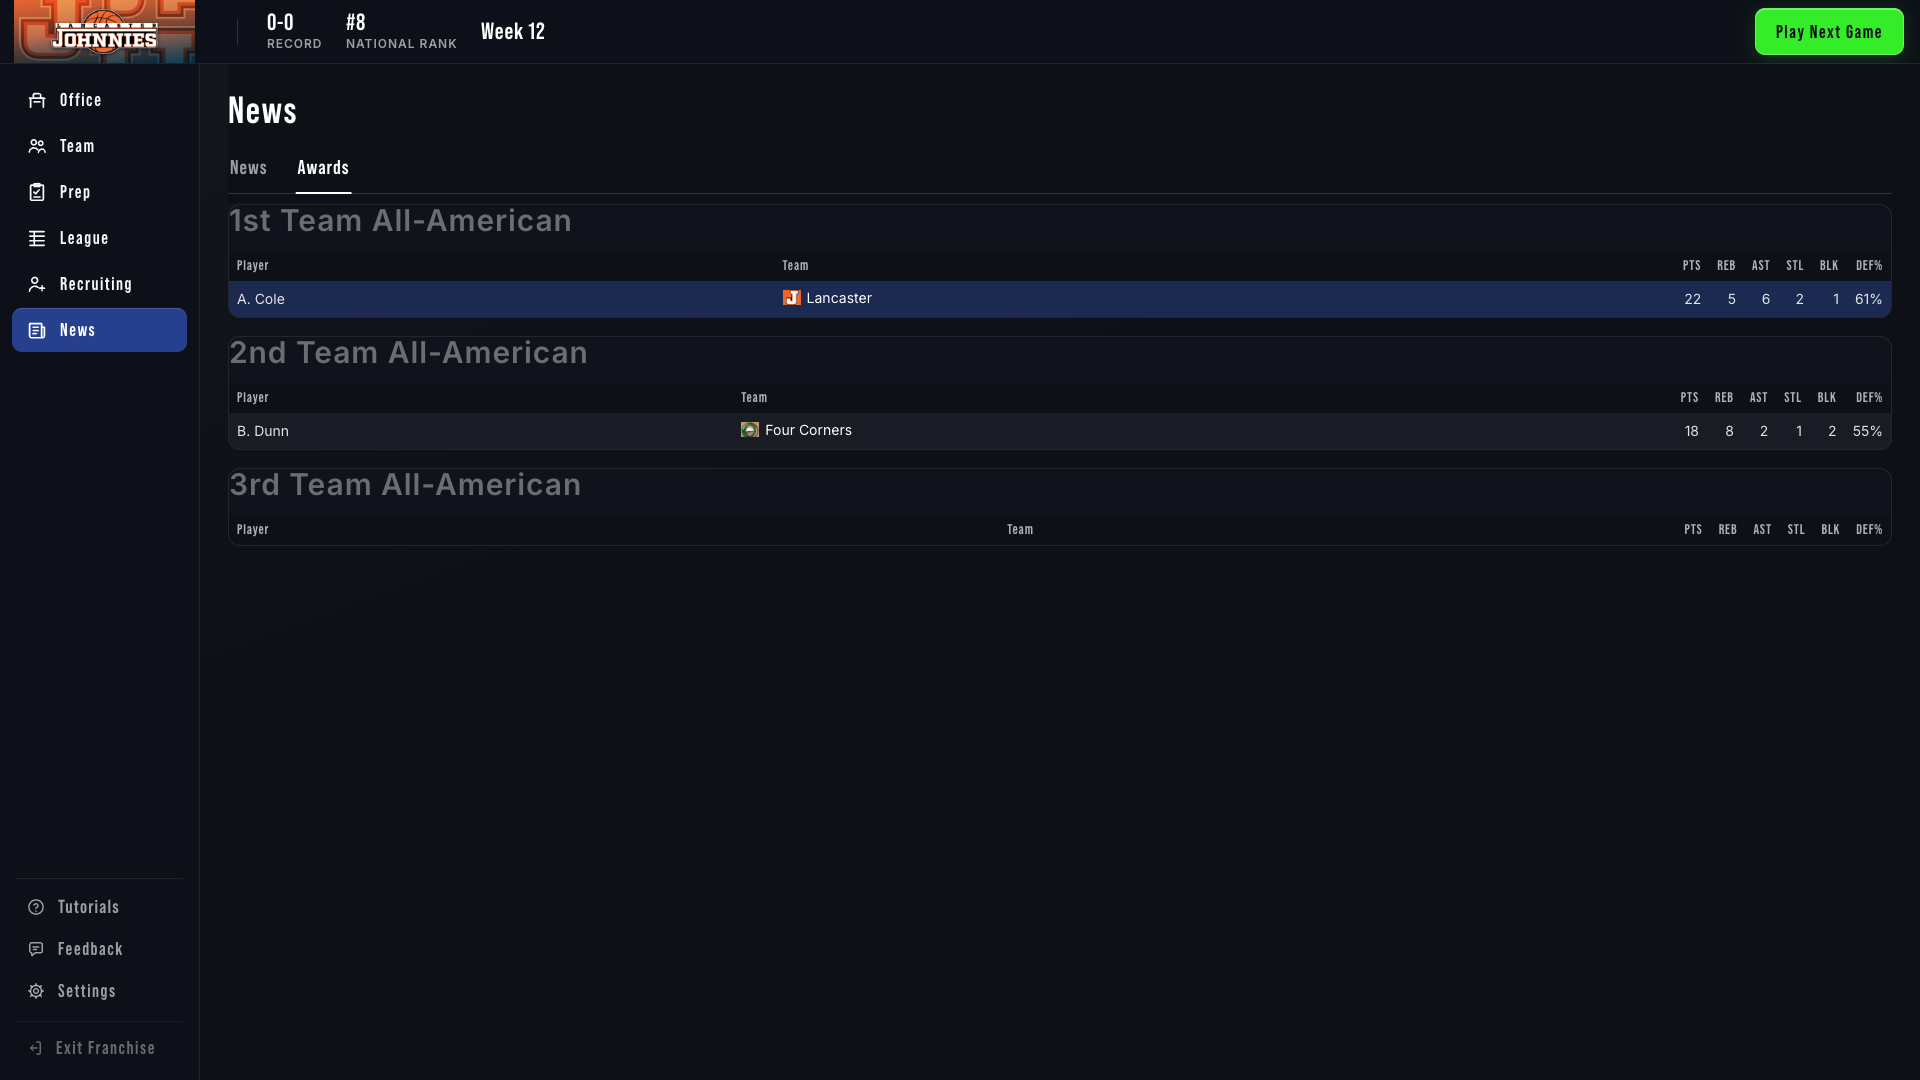
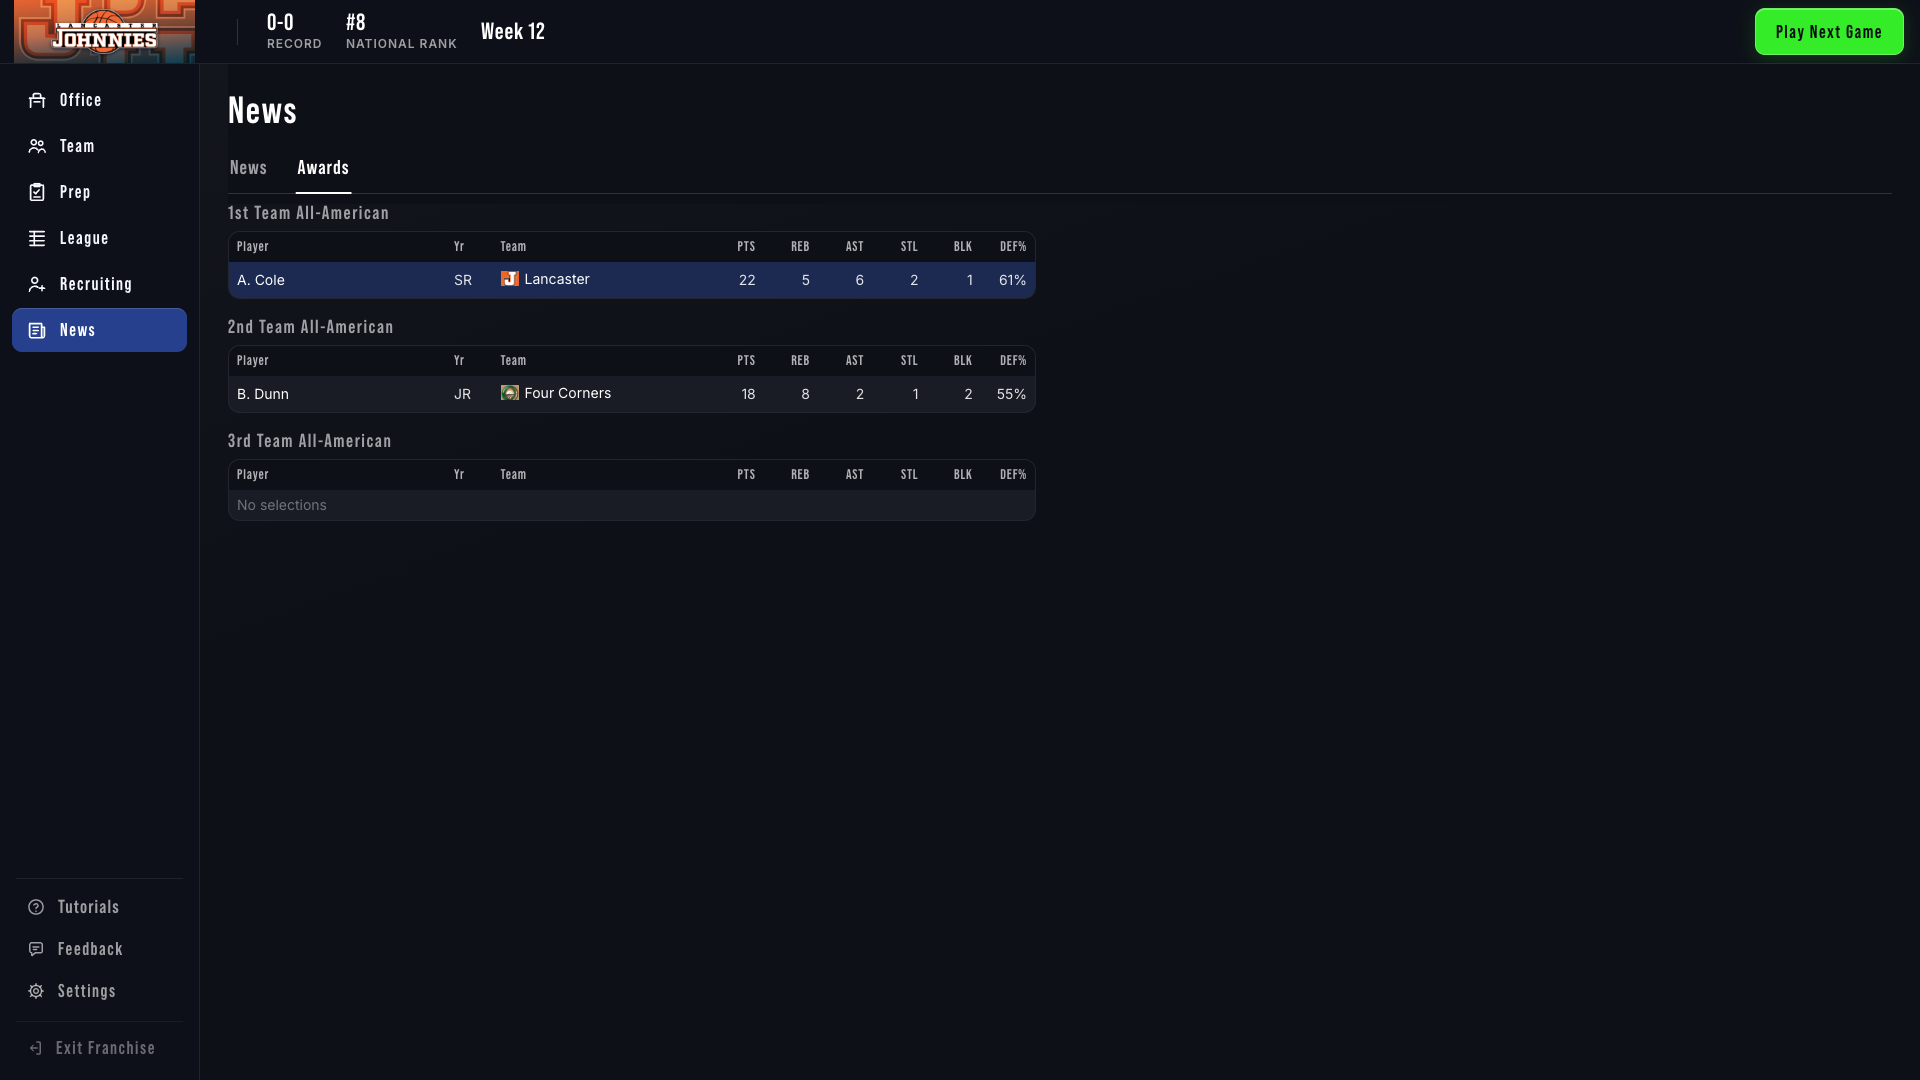
Tighten the awards cards to the table and land the news visual fix.

Changed region(s): [[0.0938, 0.1833, 1.0, 0.4889], [0.375, 0.3667, 0.4062, 0.3972]]

diff --git a/FrontEnd/static/js/shared/views/awardsView.js b/FrontEnd/static/js/shared/views/awardsView.js
@@ -15,6 +15,13 @@ function sameId(a, b) {
   return String(a || '') !== '' && String(a) === String(b || '');
 }
 
+function formatYear(year) {
+  if (window.GOB_PlayerYear && typeof window.GOB_PlayerYear.formatDisplay === 'function') {
+    return window.GOB_PlayerYear.formatDisplay(year);
+  }
+  return year || '--';
+}
+
 function statText(stats, key) {
   var value = stats ? stats[key] : null;
   if (value == null || value === '') return '--';
@@ -30,6 +37,19 @@ export function mount(container, ctx) {
   var alive = true;
   var userId = (ctx && ctx.teamId) || '';
   var franchiseId = (ctx && ctx.franchiseId) || '';
+
+  function playerHref(player) {
+    var params = new URLSearchParams(window.location.search);
+    params.set('tab', 'player-view');
+    params.set('player_id', player.player_id || '');
+    params.set('origin', 'league');
+    params.set('up', 'Awards');
+    params.set('return_tab', 'awards-view');
+    params.delete('story');
+    params.delete('view_team_id');
+    var text = params.toString();
+    return window.location.pathname + (text ? '?' + text : '');
+  }
 
   function teamHref(player) {
     var params = new URLSearchParams(window.location.search);
@@ -53,16 +73,25 @@ export function mount(container, ctx) {
     var html = '<div class="gob-awards">';
     TEAMS.forEach(function (team) {
       var players = teams[team.key] || [];
-      html += '<section class="gob-tcard"><h3>' + tables.esc(team.label) + '</h3>';
-      html += '<table class="gob-tbl"><thead><tr><th class="team">Player</th><th class="team">Team</th>';
+      html += '<section><h3>' + tables.esc(team.label) + '</h3><div class="gob-tcard">';
+      html += '<table class="gob-tbl gob-awards-tbl"><colgroup><col class="c-player"><col class="c-yr"><col class="c-team">';
+      STATS.forEach(function () { html += '<col class="c-stat">'; });
+      html += '</colgroup><thead><tr><th class="left">Player</th><th class="left">Yr</th><th class="left">Team</th>';
       STATS.forEach(function (key) { html += '<th>' + tables.esc(key) + '</th>'; });
       html += '</tr></thead><tbody>';
+      if (!players.length) {
+        html += '<tr><td class="left gob-awards-empty" colspan="9">No selections</td></tr>';
+      }
       players.forEach(function (player) {
         var mine = sameId(player.team_id, userId);
         var stats = player.stats || {};
+        var name = tables.esc(player.name || '--');
         html += '<tr' + (mine ? ' class="me is-user"' : '') + '>';
-        html += '<td class="team">' + tables.esc(player.name || '--') + '</td>';
-        html += '<td class="team">' + tables.teamLink(
+        html += '<td class="left">' + (player.player_id
+          ? '<a class="gob-player" href="' + tables.esc(playerHref(player)) + '">' + name + '</a>'
+          : name) + '</td>';
+        html += '<td class="left">' + tables.esc(formatYear(player.year)) + '</td>';
+        html += '<td class="left">' + tables.teamLink(
           teamHref(player),
           player.team_name || '--',
           player.team_name || '',
@@ -73,11 +102,11 @@ export function mount(container, ctx) {
         });
         html += '</tr>';
       });
-      html += '</tbody></table></section>';
+      html += '</tbody></table></div></section>';
     });
     html += '</div>';
     container.innerHTML = html;
-    container.querySelectorAll('a.gob-team').forEach(function (link) {
+    container.querySelectorAll('a.gob-team, a.gob-player').forEach(function (link) {
       link.addEventListener('click', function (event) {
         if (event.metaKey || event.ctrlKey || event.shiftKey || event.altKey || event.button) return;
         event.preventDefault();

diff --git a/tests/e2e/news-awards.spec.js b/tests/e2e/news-awards.spec.js
@@ -91,6 +91,7 @@ function awardsBody() {
       first_team: [{
         player_id: 'p1',
         name: 'A. Cole',
+        year: 'Senior',
         team_id: TID,
         team_name: 'Lancaster',
         stats: { PTS: 22, REB: 5, AST: 6, STL: 2, BLK: 1, 'DEF%': 61 },
@@ -98,6 +99,7 @@ function awardsBody() {
       second_team: [{
         player_id: 'p2',
         name: 'B. Dunn',
+        year: 'Junior',
         team_id: OTHER,
         team_name: 'Four Corners',
         stats: { PTS: 18, REB: 8, AST: 2, STL: 1, BLK: 2, 'DEF%': 55 },
@@ -201,7 +203,16 @@ test('news and awards tabs stay in the page', async ({ page }) => {
   const firstRow = page.locator('#news-view .gob-news-week').first().locator('.gob-news-row').first();
   await expect(firstRow).toHaveClass(/is-yours/);
   await expect(firstRow).toContainText('Lancaster defeated Four Corners 70-64');
-  await expect(firstRow.locator('a')).toHaveAttribute('href', '/box-score.html?game_id=g1');
+  await expect(firstRow.locator('a.lnk')).toHaveAttribute('href', '/box-score.html?game_id=g1');
+  await expect(firstRow.locator('a.lnk')).toHaveText('Box Score');
+  const head = await page.locator('#news-view .gob-news-week > h3').first().evaluate(function (el) {
+    const style = getComputedStyle(el);
+    return { size: style.fontSize, family: style.fontFamily };
+  });
+  expect(head.size).toBe('16px');
+  expect(head.family).toContain('Bebas');
+  const edge = await firstRow.evaluate(function (el) { return getComputedStyle(el).boxShadow; });
+  expect(edge).toContain('39, 64, 142');
   expect(page.url()).toContain('tab=news-view');
   expect(page.url()).not.toContain('news.html');
   expect(await page.evaluate(() => performance.getEntriesByType('navigation').length)).toBe(navs);
@@ -210,10 +221,16 @@ test('news and awards tabs stay in the page', async ({ page }) => {
   await expect(page.locator('#awards-view.tab-content.active')).toBeVisible();
   await expect(page.locator('#awards-view h3').first()).toHaveText('1st Team All-American');
   await expect(page.locator('#awards-view tr.me')).toContainText('A. Cole');
+  await expect(page.locator('#awards-view tr.me')).toContainText('SR');
   await expect(page.locator('#awards-view tr.me')).toContainText('61%');
   await expect(page.locator('#awards-view tbody tr').nth(1)).not.toHaveClass(/me/);
+  await expect(page.locator('#awards-view .gob-awards-empty')).toHaveText('No selections');
   expect(page.url()).toContain('tab=awards-view');
   expect(page.url()).not.toContain('awards.html');
+  const player = page.locator('#awards-view tr.me a.gob-player');
+  await player.click();
+  await expect.poll(function () { return page.url(); }).toContain('tab=player-view');
+  expect(page.url()).toContain('player_id=p1');
 });
 
 test('a headline pushes the story and back restores the feed scroll', async ({ page }) => {

diff --git a/FrontEnd/static/css/gob-views.css b/FrontEnd/static/css/gob-views.css
@@ -206,16 +206,20 @@
   font: var(--fw-semibold) var(--fs-14)/var(--lh-body) var(--font-body);
 }
 
-.gob-news-week {
-  margin: 0 0 18px;
+.gob-news,
+.gob-awards {
+  display: flex;
+  flex-direction: column;
+  gap: var(--dsp-16);
 }
 
-.gob-news-week h3,
-.gob-awards h3 {
-  margin: 0 0 8px;
-  font: var(--fw-semibold) var(--fs-12)/var(--lh-1) var(--font-body);
-  letter-spacing: var(--tracking-6);
-  color: var(--text-38);
+/* Beats #franchise-container .tab-content h3 (30px Inter). Same face as .gob .card-h h3. */
+#franchise-container #news-view .gob-news-week > h3,
+#franchise-container #awards-view .gob-awards > section > h3 {
+  margin: 0 0 var(--space-8);
+  font: var(--fw-bold) var(--fs-16)/var(--lh-1) var(--font-display);
+  letter-spacing: var(--tracking-8);
+  color: var(--text-60);
 }
 
 .gob-news-row {
@@ -234,8 +238,24 @@
   min-width: 0;
 }
 
+.gob-news-card .gob-news-row:first-child {
+  border-top: 0;
+}
+
 .gob-news-row.is-yours {
-  box-shadow: inset 3px 0 0 #1c2a52;
+  box-shadow: inset 3px 0 0 var(--navy);
+}
+
+#franchise-container #news-view .gob-news-row a.lnk {
+  margin-left: auto;
+}
+
+#franchise-container #news-view a.lnk {
+  color: var(--text-60);
+}
+
+#franchise-container #news-view a.lnk:hover {
+  color: var(--text-100);
 }
 
 .gob-news-type {
@@ -282,16 +302,37 @@
   gap: 16px;
 }
 
-#awards-view .gob-tbl th:not(.team),
-#awards-view .gob-tbl td:not(.team),
-#news-view .gob-news-body .gob-tbl th:not(.team),
-#news-view .gob-news-body .gob-tbl td:not(.team) {
-  width: 1%;
-  white-space: nowrap;
+/* The shared wide-table floor is 1760px. A story player table is content-sized so
+   the attribute tiles and the RT letter stay on screen with the name. */
+#franchise-container #news-view .gob-news-body .gob-xs .gob-tbl {
+  min-width: 0;
+  width: max-content;
 }
 
-.gob-awards {
-  display: flex;
-  flex-direction: column;
-  gap: 18px;
+#franchise-container #awards-view .gob-awards .gob-tcard {
+  width: fit-content;
+  max-width: 100%;
+}
+
+#franchise-container #awards-view table.gob-awards-tbl {
+  width: max-content;
+  max-width: 100%;
+}
+
+#franchise-container #awards-view table.gob-awards-tbl col.c-player { width: 14rem; }
+#franchise-container #awards-view table.gob-awards-tbl col.c-yr { width: 3rem; }
+#franchise-container #awards-view table.gob-awards-tbl col.c-team { width: 14rem; }
+#franchise-container #awards-view table.gob-awards-tbl col.c-stat { width: 3.5rem; }
+
+#franchise-container #awards-view a.gob-player {
+  color: var(--text-100);
+  text-decoration: none;
+}
+
+#franchise-container #awards-view a.gob-player:hover {
+  text-decoration: underline;
+}
+
+#franchise-container #awards-view .gob-awards-empty {
+  color: var(--text-38);
 }

diff --git a/FrontEnd/static/js/shared/views/newsView.js b/FrontEnd/static/js/shared/views/newsView.js
@@ -40,6 +40,12 @@ function feedUrl() {
   return window.location.pathname + (text ? '?' + text : '');
 }
 
+function presentLabel(label) {
+  return String(label || '').replace(/\b\w/g, function (letter) {
+    return letter.toUpperCase();
+  });
+}
+
 function storyUrl(id) {
   var params = new URLSearchParams(window.location.search);
   params.set('tab', 'news-view');
@@ -131,14 +137,14 @@ export function mount(container, ctx) {
     var html = '<div class="gob-news">';
     order.forEach(function (key) {
       var group = byWeek[key];
-      html += '<section class="gob-news-week"><h3>Week ' + tables.esc(group.week) + '</h3>';
+      html += '<section class="gob-news-week"><h3>Week ' + tables.esc(group.week) + '</h3><div class="gob-tcard gob-news-card">';
       group.mine.forEach(function (item) {
         html += '<div class="gob-news-row' + (item.yours ? ' is-yours' : '') + '">'
           + '<span class="gob-news-type">' + tables.esc(typeLabel(item.type)) + '</span>'
           + '<p>' + tables.esc(item.headline || '') + '</p>';
         if (item.target) {
-          html += '<a class="gob-news-link" href="' + tables.esc(item.target) + '">'
-            + tables.esc(item.link_label || '') + '</a>';
+          html += '<a class="lnk" href="' + tables.esc(item.target) + '">'
+            + tables.esc(presentLabel(item.link_label || '')) + '</a>';
         }
         html += '</div>';
       });
@@ -148,7 +154,7 @@ export function mount(container, ctx) {
           + '<span class="gob-news-type">' + tables.esc(typeLabel(item.type)) + '</span>'
           + '<p>' + tables.esc(item.headline || '') + '</p></a>';
       });
-      html += '</section>';
+      html += '</div></section>';
     });
     html += '</div>';
     container.innerHTML = html;

diff --git a/FrontEnd/static/js/shared/newsStory.js b/FrontEnd/static/js/shared/newsStory.js
@@ -108,7 +108,7 @@ export function renderRichLines(richLines) {
     if (type === 'game_result') {
       var line = esc(item.text);
       if (item.box_score_href) {
-        line += ' <a class="gob-news-link" href="' + esc(item.box_score_href) + '">Box Score</a>';
+        line += ' <a class="lnk" href="' + esc(item.box_score_href) + '">Box Score</a>';
       }
       return '<p class="gob-news-line">' + line + '</p>';
     }

diff --git a/reports/news-awards-2026-09-27.md b/reports/news-awards-2026-09-27.md
@@ -54,4 +54,21 @@ No new stored fields. `GET /franchise/news` adds `dispatches`, each `{week, type
 - `save-news-*` and `save-awards-*`: offline copy of the schedule-time save (Lancaster, week 3). The feed shows week groups, type labels, and the navy edge on the training report and the game result. Awards is the week-35 empty state.
 - `fixture-news-*` and `fixture-awards-*`: week 12 feed (game-result dispatch on top, upset, recruiting) and a 1st-team row marked `tr.me` with DEF% 61.
 
+## Fix pass
+
+Headings. The winning rule was `#franchise-container .tab-content h3` in `franchise-command-center.css` (`font-size: 30px`, `letter-spacing: 0.03em`). Specificity (1, 1, 1) beat `.gob-news-week h3`, so the titles stayed about 30px Inter. The replacement selectors are `#franchise-container #news-view .gob-news-week > h3` and `#franchise-container #awards-view .gob-awards > section > h3`: display, `--fs-16`, `--tracking-8`, `--text-60`, the same face as `.gob .card-h h3`. Each heading sits outside its card. Week groups read "Week 12". Awards read "1st Team All-American", "2nd Team All-American", "3rd Team All-American".
+
+Navy edge. `.gob-news-row.is-yours` now uses `var(--navy)` (`#27408E` in `gob-tokens.css`). There is no separate yours-edge token in `gob-tables.css` or `gob-components.css`. The hex `#1c2a52` is still the row fill in `gob-tables.css`: `tr.me` / `tr.is-user` (around line 110) and the leaders board `.ldb-top.me` / `.ldb-r.me` / `.gob-full tr.me` (around line 435). Those were left as they were.
+
+Row links. Dispatch targets use `.lnk`. The view title-cases `link_label` ("View", "Box Score"); the arrow is the existing `::after`. The payload is unchanged. A story `game_result` Box Score uses the same class.
+
+Awards tables. Columns are Player, Yr (`year` through `GOB_PlayerYear.formatDisplay`), Team (logo and name), PTS, REB, AST, STL, BLK, DEF%. The table is `max-content` with column widths so the stats sit against the team at 1280 and 1920. The player name pushes `player-view` with `player_id`. An empty tier is one quiet "No selections" row.
+
+Story body. The shared wide-table floor (`.gob-xs .gob-tbl { min-width: 1760px }`) was pushing the attribute columns and the RT letter off the story. The story table is content-sized, so the headers, luminance tiles, and RT letter sit with the name. `story-player-1280.png` is a walk-ons `player_table`. `story-upset-1280.png` is an upset `game_result` with the Box Score link.
+
+`origin/develop` was already at this branch tip. Full suite on port 8010: 501 passed, 2 skipped, 7.5m, exit 0, workers=1. Screenshots in `reports/news-awards/` were replaced (feed and awards at 1280 and 1920, save and fixture, plus the two story shots).
+
+Each All-American card is `width: fit-content; max-width: 100%`, so it hugs the table at 1280 and 1920. `fixture-awards-1280.png` and `fixture-awards-1920.png` were retaken.
+`tests/e2e/news-awards.spec.js` on port 8012: 6 passed, 8.6s, exit 0, workers=1.
+
 STATUS: COMPLETE
